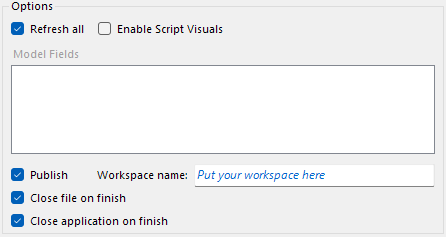
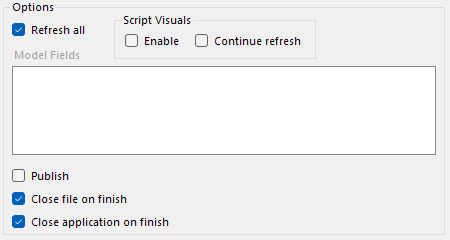
updated images and documentation

diff --git a/frmMain.Designer.cs b/frmMain.Designer.cs
@@ -236,7 +236,7 @@ namespace PowerRefresher
             this.chkContinueRefresh.Size = new System.Drawing.Size(113, 17);
             this.chkContinueRefresh.TabIndex = 5;
             this.chkContinueRefresh.Text = "Continue refresh";
-            this.helpToolTip.SetToolTip(this.chkContinueRefresh, "Continue with refresh process even if script visuals were disabled.");
+            this.helpToolTip.SetToolTip(this.chkContinueRefresh, "Continues with refresh process even if script visuals were disabled.");
             this.chkContinueRefresh.UseVisualStyleBackColor = true;
             // 
             // txtWorkspace

diff --git a/frmMain.cs b/frmMain.cs
@@ -294,7 +294,6 @@ namespace PowerRefresher
             {
                 txtOutput.Text += "[FAILED]\nAn unexpected error has occurred: " + e.Message;
                 SetOutputLineColor(txtOutput.Lines.Length - 1, Color.Red);
-                ShowMessage("An unexpected error has occurred. Check the output for details.", MessageBoxIcon.Error, "Unexpected error");
                 return false;
             }
         }

diff --git a/README.md b/README.md
@@ -78,7 +78,9 @@ Simply, you have to execute the program and set all the options shown in the use
   * Language: *Choose your Power BI Desktop application language* <br><br><img src="images/input.png" alt="input" >
 - **Options**
   * Refresh all: *Check to refresh all the queries/tables/fields present on the model. If uncheck this option, you have to select which fields want to be updated from the below list.*
-  * Enable Script Visuals: *Check to allow the application to enable script visuals automatically, if they exist in the file. Only enable script visuals if you trust the author and source.*
+  * Script Visuals
+    - Enable: *Check to allow the application to enable script visuals automatically, if they exist in the file. Only enable script visuals if you trust the author and source.*
+    - Continue refresh: *Continues with refresh process even if script visuals were disabled. Otherwise, the process will be aborted.*
   * Publish: *Check to publish your file into a workspace after it has been updated. You must put the target workspace name in the box next to the checkbox control.* 
   * Close file on finish: *Check to close `*.pbix` file on process finish*
   * Close application on finish: *Check to close `PowerRefresher` on process finish. If this option is enabled, when the application is closed, a log file will be created and shown with all the update details* <br><br><img src="images/options_gui.png" alt="options">
@@ -94,24 +96,25 @@ Simply, you have to execute the program and set all the options shown in the use
 Run the **PowerRefresher** application by passing the following arguments:
 
 ```batchfile
--target=path -timeout=180 -refresh_mode=all/fields -fields="[field1,fieldN]" -publish=bool -workspace=name -enable_script_visuals=bool -closefile=bool -closeapp=bool -pbi_lang=en/es
+-target=path -timeout=180 -refresh_mode=all/fields -fields="[field1,fieldN]" -publish=bool -workspace=name -enable_script_visuals=bool -sv_force_refresh=bool -closefile=bool -closeapp=bool -pbi_lang=en/es
 ```
-| Command                   | Description                                         |
-|---------------------------|-----------------------------------------------------|
-|`target`                   |Full pbix file path                                  |
-|`timeout`                  |Waiting timeout in seconds (max. 600)                |
-|`refresh_mode`             |Refresh mode, all or selected fields                 |
-|`fields`                   |Fields to update                                     |
-|`publish`                  |True if you want to publish file                     |
-|`workspace`                |Target workspace name (to publish into)              |
-|`enable_script_visuals`    |Allow the app to enable script visuals automatically |
-|`closefile`                |True if you want to close file on finish             |
-|`closeapp`                 |True if you want to close app on finish              |
-|`pbi_lang`                 |For English use **en**, for Spanish use **es**       |
+| Command                   | Description                                             |
+|---------------------------|---------------------------------------------------------|
+|`target`                   |Full pbix file path                                      |
+|`timeout`                  |Waiting timeout in seconds (max. 600)                    |
+|`refresh_mode`             |Refresh mode, all or selected fields                     |
+|`fields`                   |Fields to update                                         |
+|`publish`                  |True if you want to publish file                         |
+|`workspace`                |Target workspace name (to publish into)                  |
+|`enable_script_visuals`    |Allow the app to enable script visuals automatically     |
+|`sv_force_refresh`         |Forces refresh process when script visuals are disabled  |
+|`closefile`                |True if you want to close file on finish                 |
+|`closeapp`                 |True if you want to close app on finish                  |
+|`pbi_lang`                 |For English use **en**, for Spanish use **es**           |
 
 #### Example
 ```batchfile
--target="C:\Users\MyUser\Desktop\My File.pbix" -timeout=180 -refresh_mode=fields -fields="[Table1,Table2]" -publish=true -workspace="My workspace" -enable_script_visuals=false -closefile=true -closeapp=true -pbi_lang=en
+-target="C:\Users\MyUser\Desktop\My File.pbix" -timeout=180 -refresh_mode=fields -fields="[Table1,Table2]" -publish=true -workspace="My workspace" -enable_script_visuals=false -sv_force_refresh=true -closefile=true -closeapp=true -pbi_lang=en
 ```
 
 > **Note**: *Remember that you can generate the script from the* `Generate Script` *button.*
